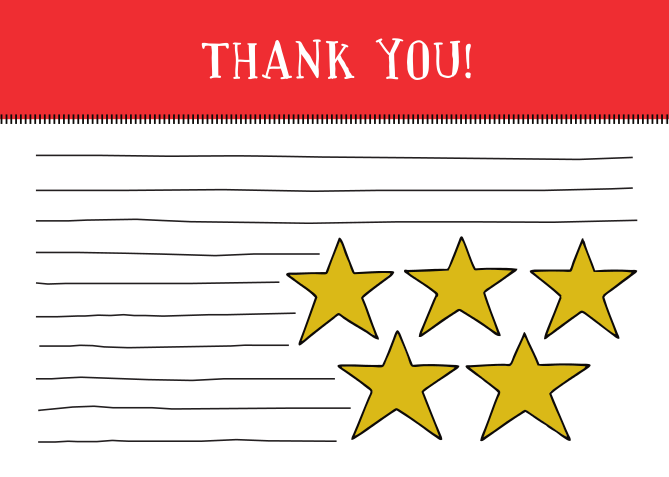
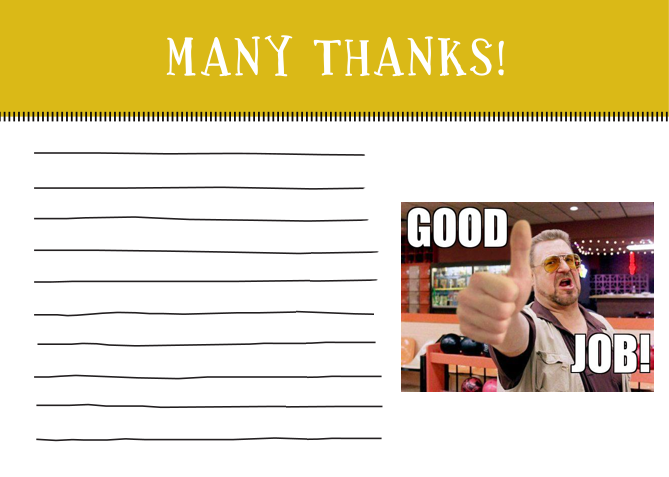
better align text, minor improvements

diff --git a/app/kudobot.py b/app/kudobot.py
@@ -14,6 +14,7 @@ from app import app
 from app import firebase_config
 from app import serviceaccount_config
 from app import slack_config
+from app.render import create_card
 
 cred = credentials.Certificate(serviceaccount_config)
 firebase_admin.initialize_app(cred, {
@@ -21,30 +22,6 @@ firebase_admin.initialize_app(cred, {
 })
 
 
-def create_card(sender, receiver, text):
-    text = f"""\
-From: {sender}
-To: {receiver}
----
-{text}"""
-
-    font_path = 'fonts/MostlyMono.ttf'
-    num_images = 9
-    image = random.randint(1, num_images)
-    x = Image.open(f'images/{image}.png').convert('RGB')
-    # thank you card TODO: text is over image if too long
-    lines = textwrap.wrap(text, width=30 if image not in [4,
-                                                          5] else 45)
-    font = ImageFont.truetype(font_path, 28, encoding='unic')
-    y_text = 130
-    draw = ImageDraw.Draw(x)
-    for line in lines:
-        width, height = font.getsize(line)
-        draw.text((30, y_text), line, font=font, fill=(0, 0, 0))
-        y_text += height + 10
-    filename = f"generated/{uuid.uuid4()}.png"
-    x.save(filename)
-    return filename
 
 
 # Our app's Slack Event Adapter for receiving actions via the Events API

diff --git a/app/render.py b/app/render.py
@@ -1,0 +1,29 @@
+import random
+import textwrap
+import uuid
+
+from PIL import Image, ImageFont, ImageDraw
+
+
+def create_card(sender, receiver, text):
+    text = f"""\
+From: {sender},
+To: {receiver}:
+{text}"""
+
+    font_path = 'fonts/MostlyMono.ttf'
+    num_images = 11
+    image = random.randint(1, num_images)
+    x = Image.open(f'images/{image}.png').convert('RGB')
+    lines = textwrap.wrap(text, width=22)
+    font = ImageFont.truetype(font_path, 28, encoding='unic')
+    y_text = 130
+    line_padding = 10
+    height = 22
+    draw = ImageDraw.Draw(x)
+    for line in lines:
+        draw.text((30, y_text), line, font=font, fill=(0, 0, 0))
+        y_text += height + line_padding
+    filename = f"generated/{uuid.uuid4()}.png"
+    x.save(filename)
+    return filename

diff --git a/app/forms.py b/app/forms.py
@@ -1,12 +1,12 @@
 from flask_wtf import FlaskForm
 from wtforms import StringField, SubmitField, TextAreaField, HiddenField
-from wtforms.validators import DataRequired
+from wtforms.validators import DataRequired, Length
 
 
 class KudosForm(FlaskForm):
-    sender = StringField('From')
-    receiver = StringField('To')
-    text = TextAreaField('Text', validators=[DataRequired()])
+    sender = StringField('From', default="anonymous")
+    receiver = StringField('To', default="anonymous")
+    text = TextAreaField('Text', validators=[DataRequired(), Length(min=5, max=200)])
     token_tag = HiddenField("token")
     refresh_token_tag = HiddenField("refresh_token")
     token_expiration_tag = HiddenField("expiration")

diff --git a/app/routes.py b/app/routes.py
@@ -30,7 +30,7 @@ def kudos():
         except requests.exceptions.HTTPError:  # probably unauthenticated
             flash("There was an error submitting your kudo.")
             flash(f"Did you register and confirm your email?")
-            flash(f"Does your email end with @{app_config['company']}?")
+            flash(f"Does your email end with @{app_config['companyEmailSuffix']}?")
             flash(f"Did you try logging in again?")
             return render_template('kudos.html', form=form, firebase_config=firebase_config)
     return render_template('kudos.html', form=form, firebase_config=firebase_config)

diff --git a/README.md b/README.md
@@ -67,3 +67,10 @@ flask run
 
 Copy the ngrok http url (e.g. `https://1234abcd.ngrok.io`) and enter it as `Request url`
 at `https://api.slack.com/apps/<your-slack-app>/event-subscriptions`.
+
+### deploy
+```shell script
+heroku container:login
+heroku container:push web --app=kudo-box-otto
+heroku container:release web --app=kudo-box-otto
+```
